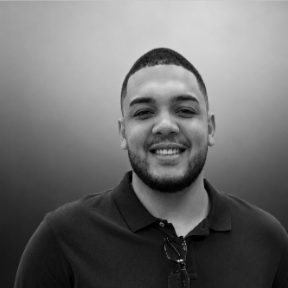
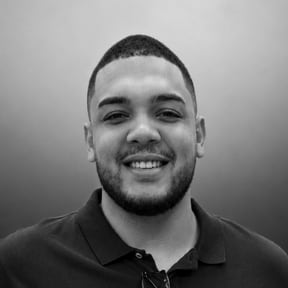
Landing: foto em quadrado arredondado e centralizada
A foto ficava oval porque o picture encolhia dentro da linha. Agora é
um quadrado de 144px com cantos arredondados que não se deforma, e a
imagem foi recortada de novo com o rosto no centro.

diff --git a/style.css b/style.css
@@ -1628,7 +1628,8 @@ button.ptlin:hover b{color:var(--accent)}
 .lglinks{display:flex;flex-wrap:wrap;gap:4px 14px;justify-content:center;width:100%}
 .lgpe a{color:var(--accent)}
 .ap-quem{display:flex;align-items:center;gap:24px;padding:48px max(18px,env(safe-area-inset-left,0px));max-width:820px;margin:0 auto;width:100%}
-.ap-quem img{width:144px;height:144px;border-radius:50%;object-fit:cover;flex:0 0 auto;box-shadow:0 0 0 4px color-mix(in srgb,var(--accent) 35%,transparent)}
+.ap-quem picture{flex:0 0 144px;width:144px;height:144px;display:block}
+.ap-quem img{display:block;width:144px;height:144px;aspect-ratio:1;border-radius:28px;object-fit:cover;object-position:center;box-shadow:0 0 0 4px color-mix(in srgb,var(--accent) 35%,transparent),0 14px 30px -14px rgba(0,0,0,.45)}
 .ap-quem h2{font-family:var(--num);font-size:clamp(26px,4vw,36px);letter-spacing:-.03em;margin:0 0 8px}
 .ap-quem p{margin:0;color:var(--muted);font-size:16px}
 .ap-quem p b{color:var(--fg)}

diff --git a/CHANGELOG.md b/CHANGELOG.md
@@ -15,6 +15,7 @@ escreva aqui o que mudou e marque o commit com uma tag (ex.: `v2.4.0`).
 ## 5.7.2 — 05/11/2026 **Aviso de nova versão redesenhado**
 
 - **Aviso de atualização:** cartão com o ícone do app, o número da versão nova e os botões **Atualizar** e **Depois**. Ao atualizar, mostra uma barra de progresso. Arrastar para baixo ou apertar Esc dispensa, e o aviso volta em 30 minutos ou quando o app é reaberto. Fica acima do aviso de cookies quando os dois aparecem juntos. Tema claro e escuro; sem animações no modo com menos movimento.
+- **Landing, "Quem faz o Monetra":** a foto deixa de ficar oval e passa a ser um quadrado de cantos arredondados, recortada de novo com o rosto no centro.
 - **vendor/:** saem as pastas do Firebase 13.1.0 e do pdf.js 6.4.299, que não são mais usadas.
 - **Testes das regras:** `glob` 14 no lugar do 10 (alerta do `minimatch`).
 - **Testado** no navegador (celular e computador, claro e escuro) com uma versão nova de verdade do service worker: o aviso aparece, mostra a versão, sobe acima dos cookies, o arrasto curto volta ao lugar, o longo dispensa, e Atualizar recarrega na versão nova.
